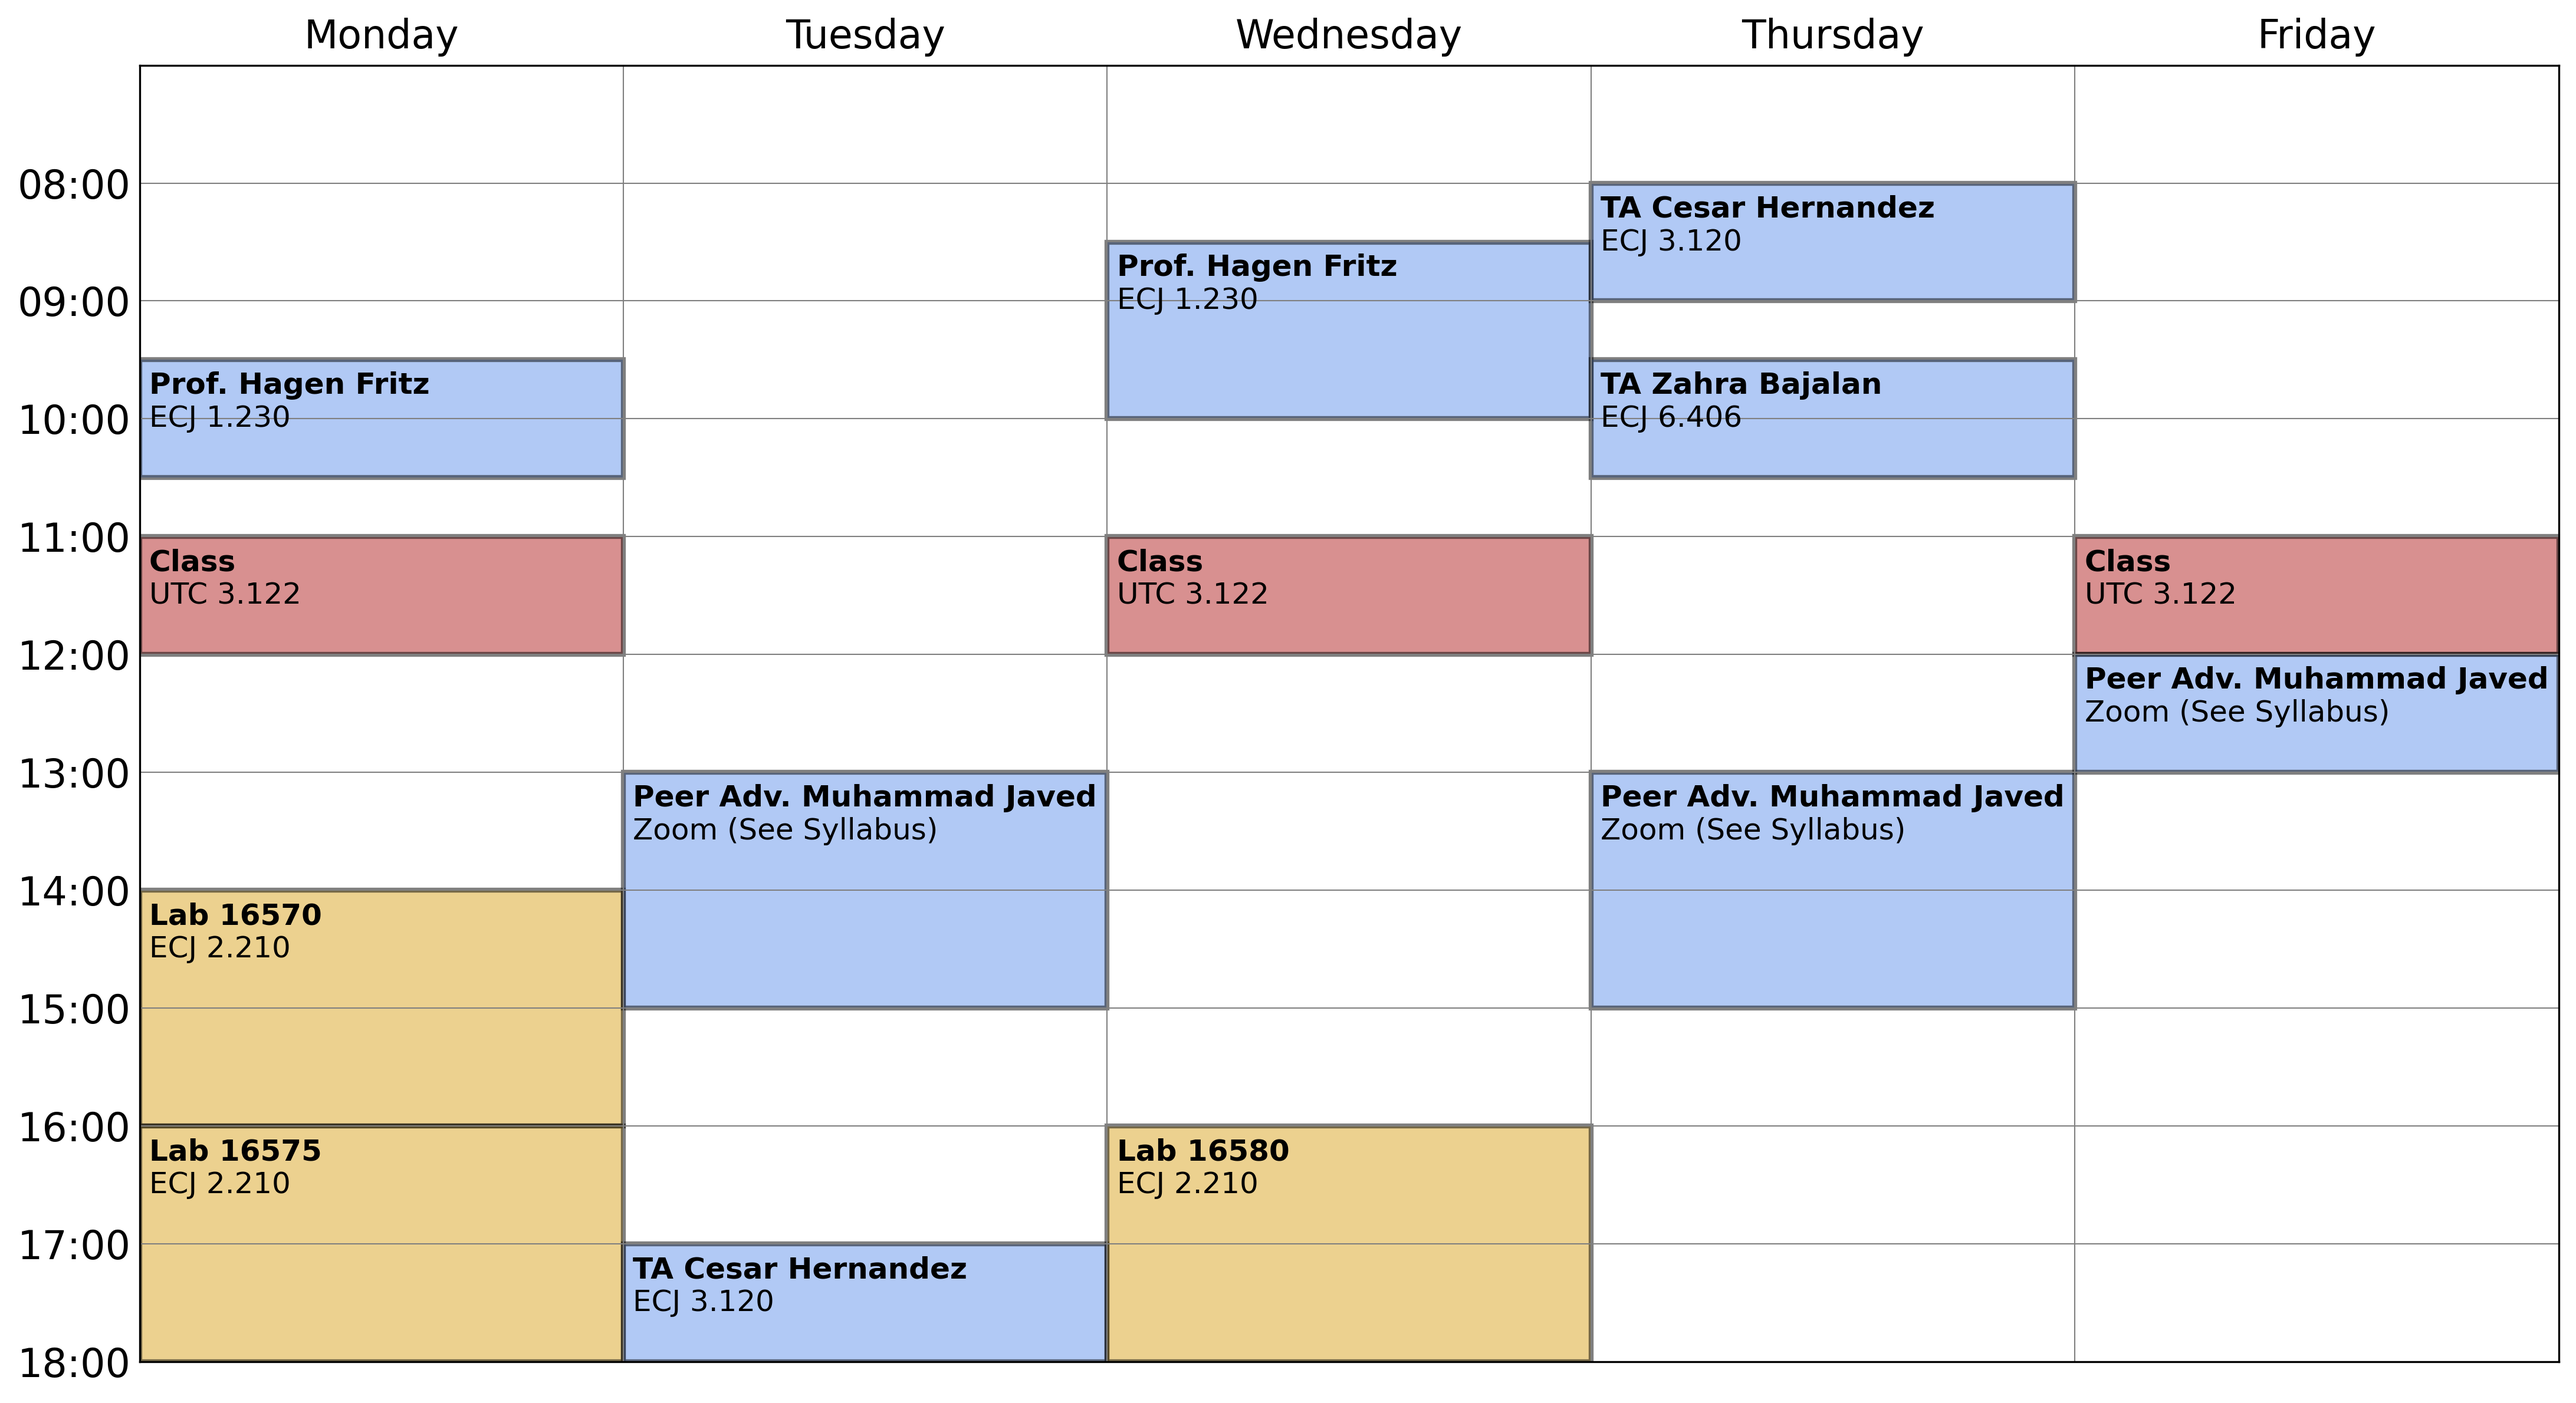
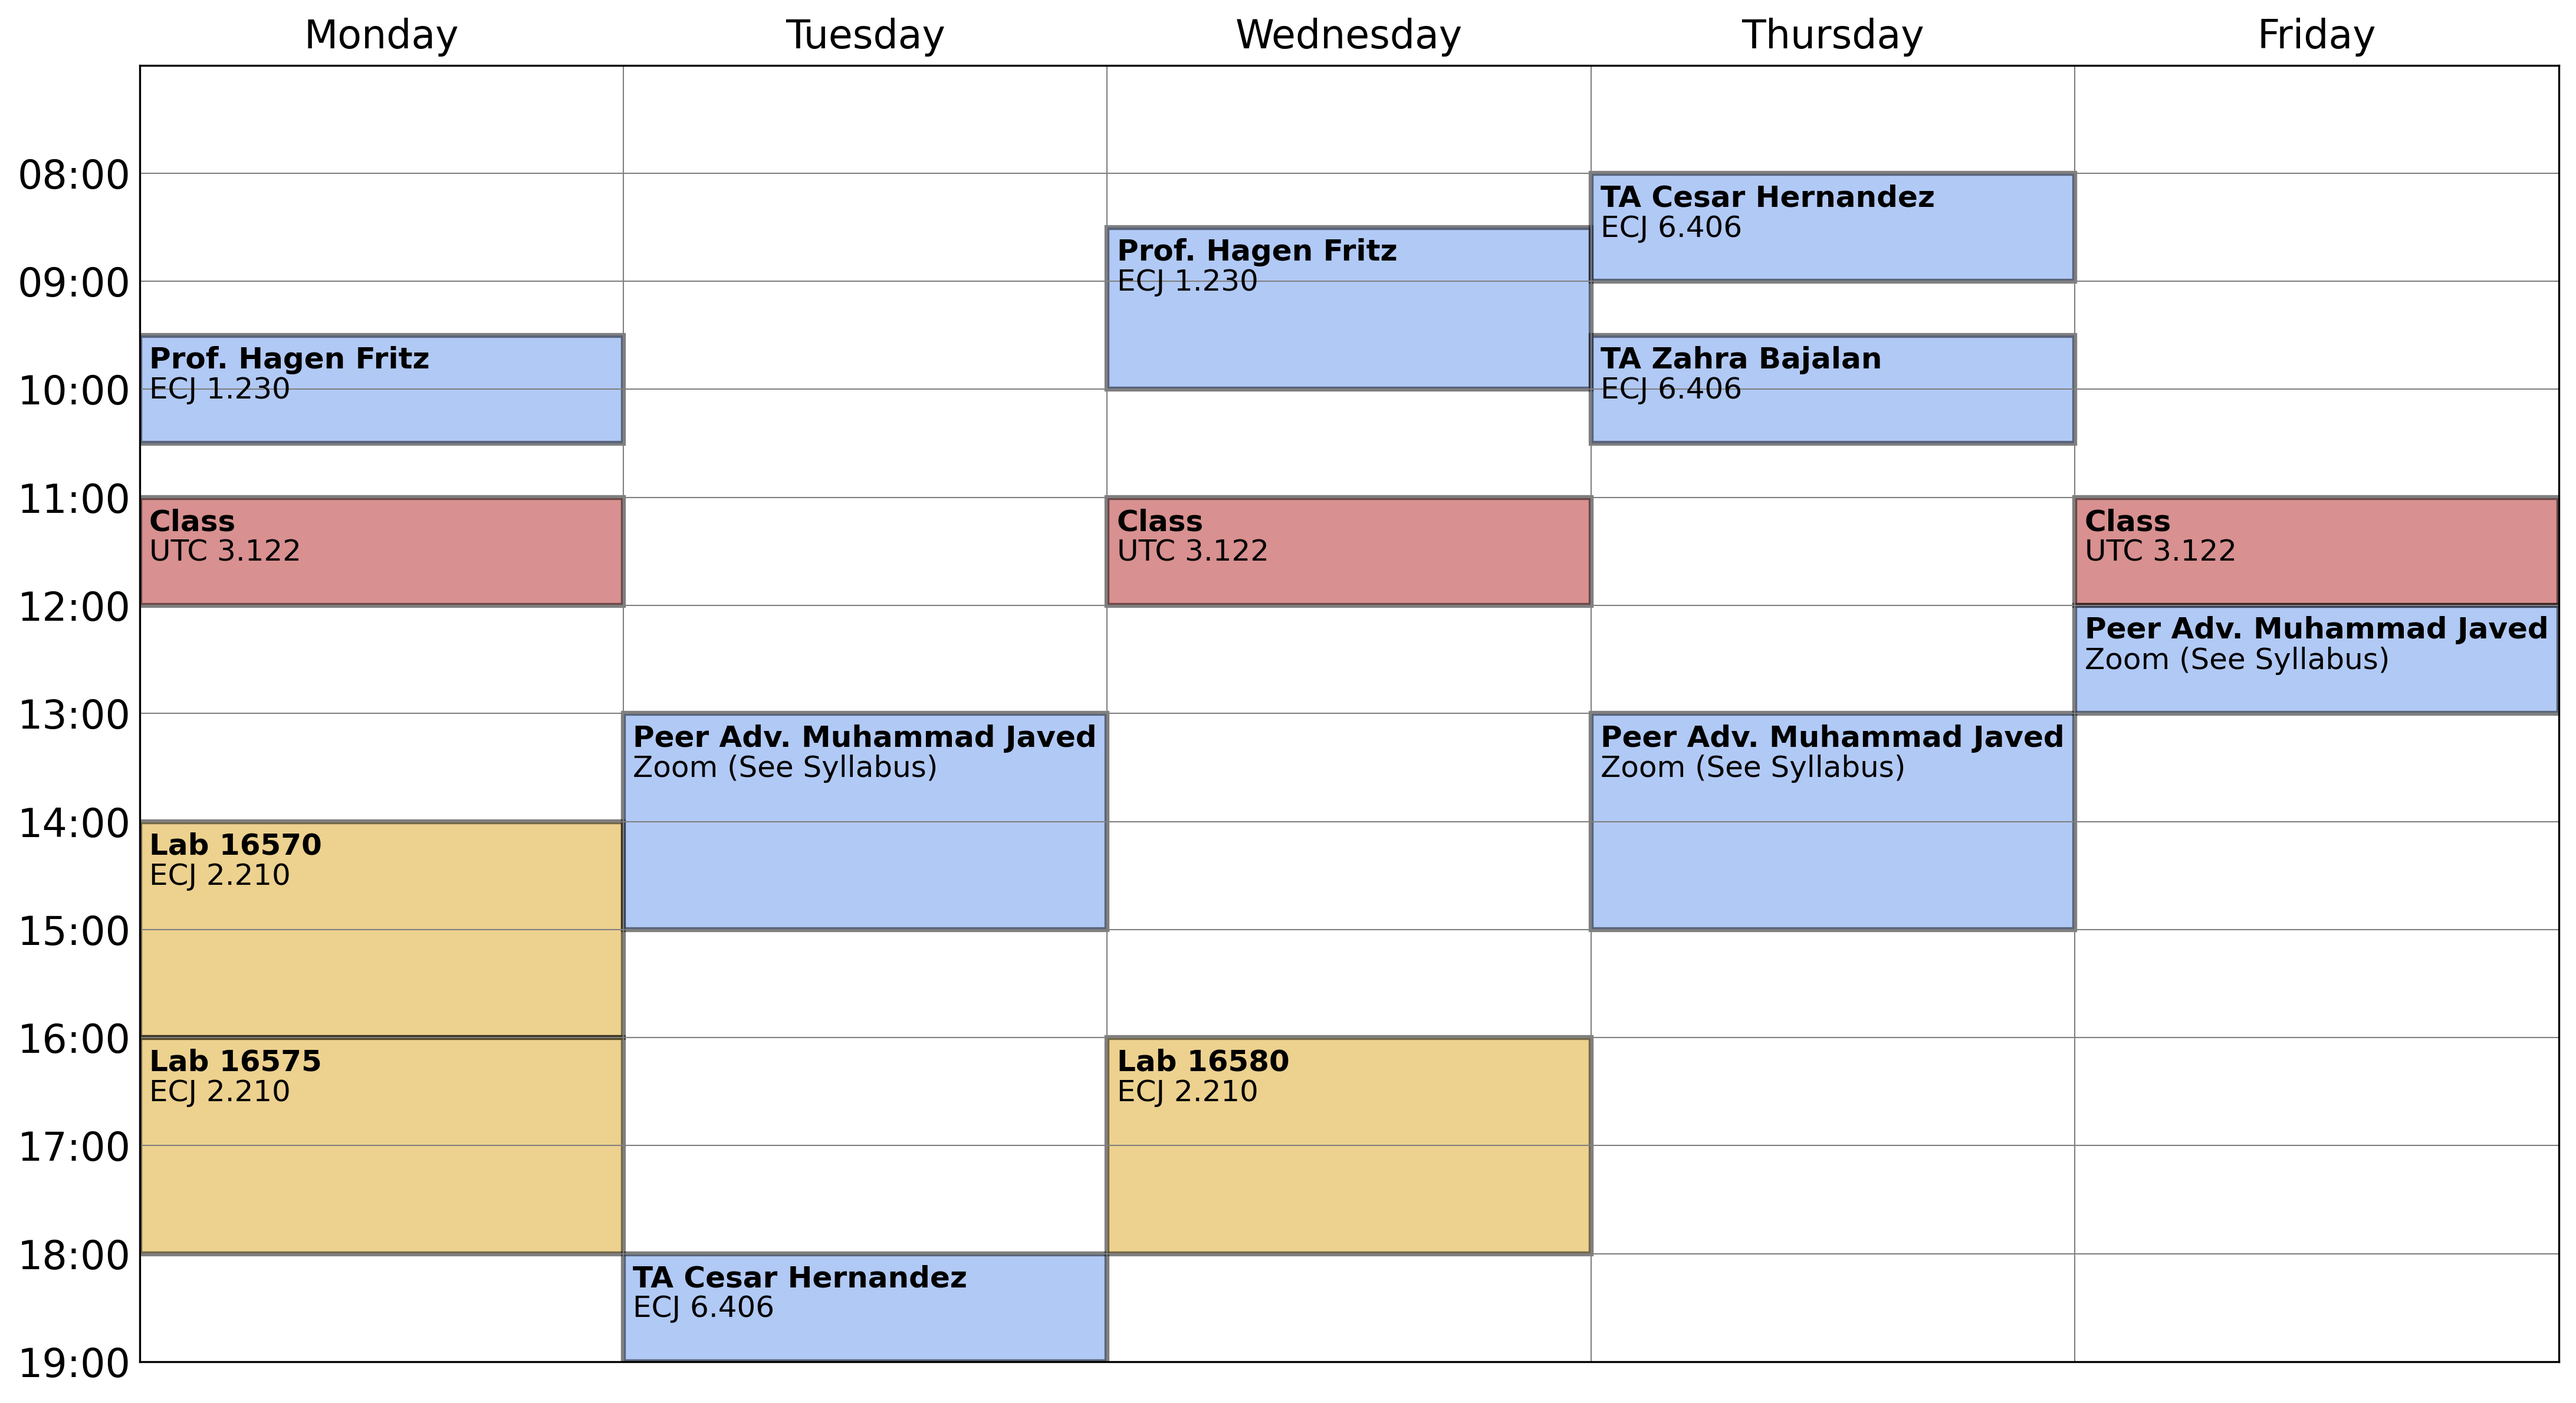
feat: create office hour schedule

diff --git a/resources/oh_schedule_gen/create_oh_schedule.py b/resources/oh_schedule_gen/create_oh_schedule.py
@@ -17,7 +17,7 @@ def create_calendar(oh_data):
     
     # Define the days and times
     days = ['Monday', 'Tuesday', 'Wednesday', 'Thursday', 'Friday']
-    times = [f"{hour:02d}:00" for hour in range(8, 19)]  # 8 AM to 6 PM
+    times = [f"{hour:02d}:00" for hour in range(8, 20)]  # 8 AM to 7 PM
     
     # Create the grid
     n_times = len(times)
